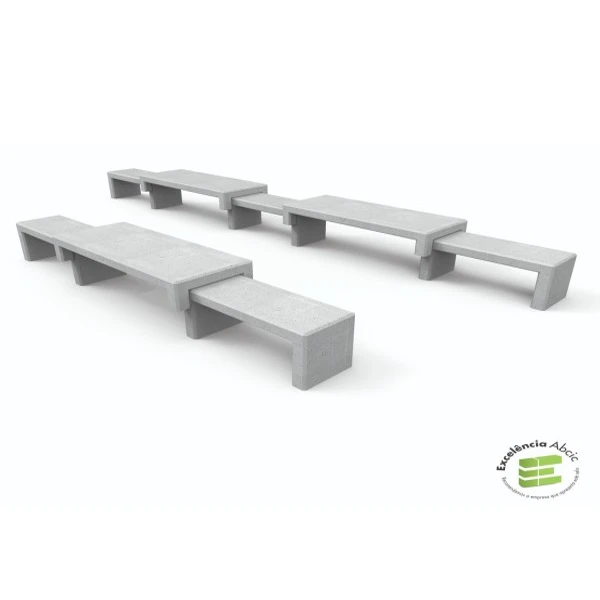
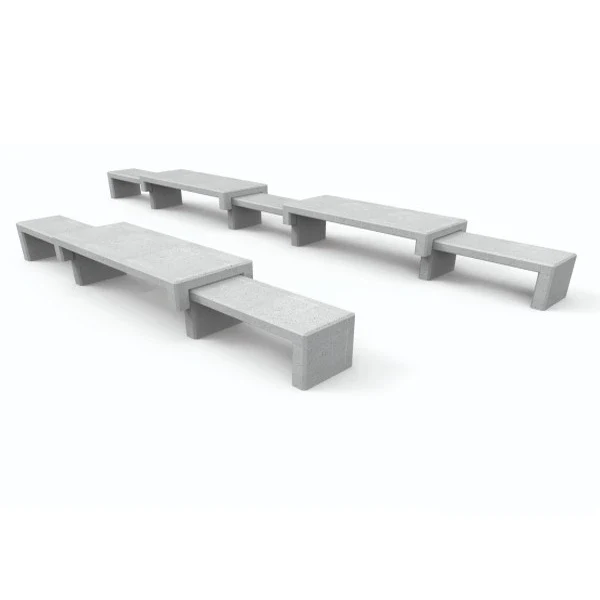
Pre-envio: remove marca dagua dos produtos, depoimentos completos, post do armazem graneleiro e mapa na pagina de contato

Changed region(s): [[0.84, 0.72, 0.99, 0.84]]

diff --git a/src/content/blog/armazem-graneleiro-na-propriedade.md b/src/content/blog/armazem-graneleiro-na-propriedade.md
@@ -1,0 +1,39 @@
+---
+titulo: "Por que vale a pena ter um armazém graneleiro na sua propriedade"
+descricao: "Armazenar a própria safra dá poder de negociação, corta gastos com frete e reduz perdas. Veja as vantagens de construir um armazém graneleiro na fazenda."
+data: 2026-07-22
+capa: /img/obras/armazem.webp
+rascunho: false
+---
+
+Todo produtor conhece a cena: chega a colheita, o grão precisa sair da lavoura e o armazém de terceiros dita as regras. Fila, taxa de recepção, desconto de umidade e, no fim, a pressa de vender a safra no pior momento do ano, quando o preço está lá embaixo porque todo mundo colheu ao mesmo tempo.
+
+Ter o próprio armazém graneleiro na propriedade muda esse jogo. Não é só uma estrutura a mais na fazenda, é uma decisão que pesa direto no resultado da safra.
+
+## Vender no melhor momento, não na pressa da colheita
+
+Essa é a maior vantagem. Com armazenagem própria, o grão colhido fica guardado com segurança e o produtor escolhe a hora de vender. Em vez de entregar tudo no pico da safra, quando a oferta derruba os preços, dá para segurar e negociar na entressafra, quando o mercado costuma pagar mais. Só esse poder de espera já paga o investimento ao longo dos anos.
+
+## Economia com frete e taxas de terceiros
+
+Levar a produção para armazenar longe custa caro: frete na colheita, taxa de recepção, taxa de armazenagem por mês e mais frete na hora de tirar. Guardando na propriedade, esses custos somem. O grão sai da lavoura direto para o silo, e o transporte acontece só uma vez, quando a venda está fechada, no destino certo.
+
+## Menos perdas e mais controle de qualidade
+
+Grão bem armazenado é grão preservado. Uma estrutura adequada, com aeração e controle de umidade, reduz as perdas por fungo, praga e quebra que acontecem quando a produção fica exposta ou mal acondicionada. O produtor acompanha de perto a qualidade do que colheu, do primeiro ao último dia de estocagem.
+
+## Autonomia na logística da fazenda
+
+Armazém próprio significa não depender de agenda de terceiros. A colheita não para porque o armazém da região está cheio, e o escoamento acontece no ritmo do produtor. Em anos de safra recorde, quando falta espaço na região inteira, essa autonomia vira a diferença entre colher tranquilo ou perder grão no campo.
+
+## Valorização da propriedade
+
+Uma fazenda com estrutura de armazenagem instalada vale mais. É um ativo permanente, que serve safra após safra e agrega valor real ao patrimônio, seja para operar, arrendar ou vender no futuro.
+
+## A estrutura certa faz toda a diferença
+
+Um armazém graneleiro é um investimento de longo prazo, e ele precisa ser construído para durar décadas sob carga pesada e uso intenso. É aí que entra a experiência de quem já ergueu dezenas de silos, barracões e complexos de armazenagem pelo Mato Grosso.
+
+A Construtora Lindóia constrói armazéns graneleiros com estrutura pré-moldada de fabricação própria, do projeto à entrega. Fabricamos as peças nas nossas unidades, transportamos com frota própria e montamos com equipe especializada, garantindo prazo e a solidez que uma obra dessas exige.
+
+Quer avaliar um armazém graneleiro na sua propriedade? Fale com o nosso comercial e receba um orçamento sem compromisso.
